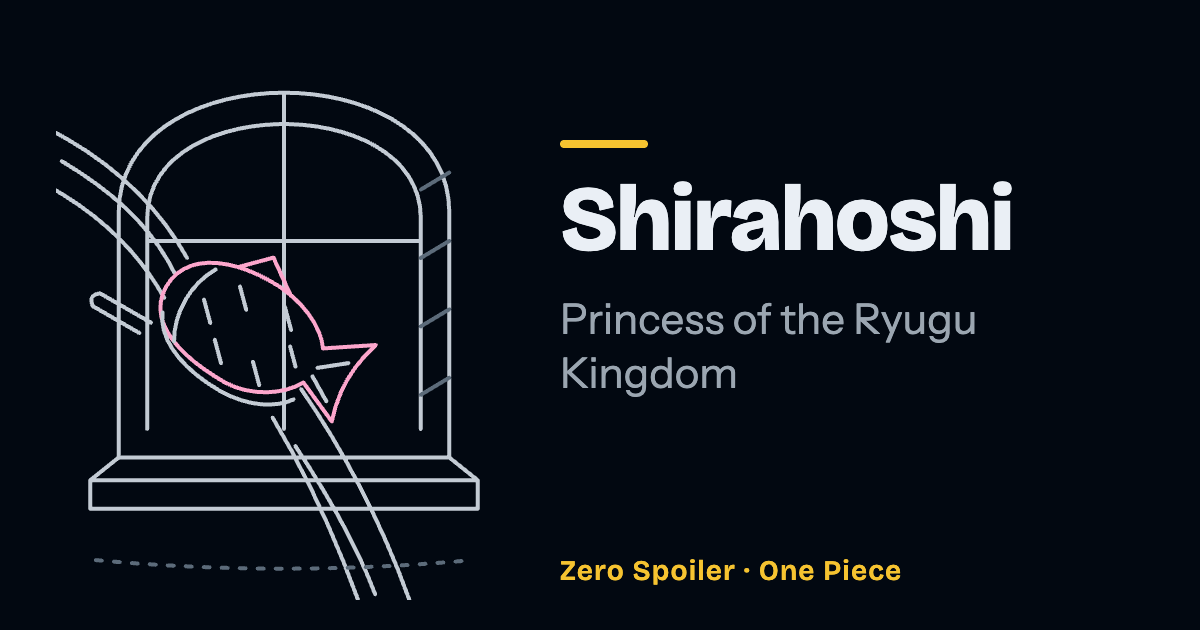
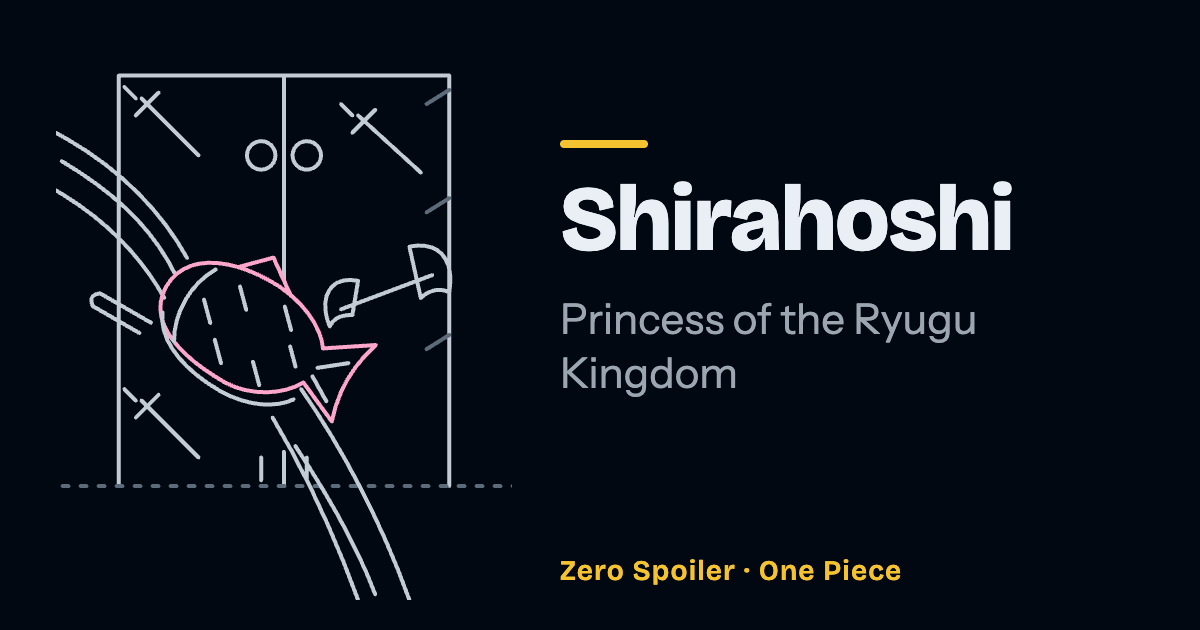
fix(art): set Shirahoshi's hairgrip against the Hard-Shell Tower's door
No source documents a window; ch. 612 has Luffy open an iron double door
with swords and a double-bladed axe stuck in it. Caribou's comments now
say his arms are hidden in the long sleeves.

Claude-Session: https://claude.ai/code/session_018XDoqAtT67ZkYEKqrsdP9h

diff --git a/src/data/series/one-piece/art/fish-man-island.ts b/src/data/series/one-piece/art/fish-man-island.ts
@@ -225,7 +225,7 @@ const CARIBOU_COLLAR: Stroke = {
   role: 'soft',
 }
 
-/** The very long sleeves of Caribou's shirt, hanging empty inside the coat. */
+/** The very long sleeves of Caribou's shirt inside the coat, his arms hidden in them. */
 const CARIBOU_SLEEVES: Stroke = {
   d: 'M70 58 C68 80 66 110 68 140 H78 C77 110 78 82 80 60 M90 58 C92 80 94 110 92 140 H82 C83 110 82 82 80 60',
   role: 'soft',
@@ -268,21 +268,28 @@ const CARIBOU_SWAMP: Stroke[] = [
 ]
 
 /**
- * The great arched window of Shirahoshi's tower, its glazing bars, the far
- * side of the frame hatched, and the sill.
+ * The iron double door of the Hard-Shell Tower, which Luffy opens on her in
+ * ch. 612: the two leaves, ring knockers high up and handles near the
+ * floor, three swords and a double-bladed axe stuck in it, the far edge
+ * hatched.
  */
-const SHIRAHOSHI_WINDOW: Stroke[] = [
-  { d: 'M22 150 V64 C22 8 138 8 138 64 V150' },
-  { d: 'M32 140 V66 C32 22 128 22 128 66 V140', role: 'soft' },
-  { d: 'M80 140 V22 M32 74 H128', role: 'soft' },
+const SHIRAHOSHI_DOOR: Stroke[] = [
+  { d: 'M22 160 V16 H138 V160 M80 16 V88 M80 148 V160' },
   {
-    d: 'M128 56 l10 -6 M128 80 l10 -6 M128 104 l10 -6 M128 128 l10 -6',
-    role: 'ambient',
+    d: `${circle(72, 44, 5)} ${circle(88, 44, 5)} M72 150 v8 M88 150 v8`,
+    role: 'soft',
   },
-  { d: 'M12 158 L22 150 H138 L148 158 Z M12 158 V168 H148 V158' },
+  {
+    d: 'M30 24 L50 44 M28 30 l8 -8 M24 20 l4 4 M106 30 L128 50 M104 36 l8 -8 M100 26 l4 4 M30 130 L50 150 M28 136 l8 -8 M24 126 l4 4',
+  },
+  {
+    d: 'M100 98 L132 86 M124 76 C134 74 140 80 138 92 C134 90 130 92 128 94 Z M106 88 C96 86 92 94 96 104 C98 100 102 100 104 100 Z',
+  },
+  { d: 'M130 26 l8 -5 M130 64 l8 -5 M130 112 l8 -5', role: 'ambient' },
+  { d: 'M-4 160 H164', role: 'ambient', dashed: true },
 ]
 
-/** A long lock of her hair falling across the window, behind the grip. */
+/** A long lock of her hair falling across the door, behind the grip. */
 const SHIRAHOSHI_LOCK: Stroke[] = [
   {
     d: 'M-4 34 C20 46 36 62 46 80 M86 126 C100 146 114 172 124 200 M-4 54 C18 66 30 80 38 94 M76 136 C88 156 98 178 106 200',
@@ -412,7 +419,7 @@ export const fishManIslandArt = {
   // His fur coat, worn draped over the shoulders like a cape and hanging
   // open: dark outside, hatched, the front edges turned back on the spotted
   // lining, whose spots are in his colour, and the fur of the collar along
-  // the top. Inside it hang the very long sleeves of his shirt, and across
+  // the top. Inside it, his arms hidden in the long sleeves of his shirt; across
   // the hem lies the flintlock he shoots the Marine with. He wears the coat
   // at Grove 46 from 519 and fires the gun at 521 (ch. 601), still in the
   // Return to Sabaody arc. The stages are in `fishManIslandRedrawn`: the
@@ -685,16 +692,11 @@ export const fishManIslandArt = {
   ],
 
   // Her hairgrip, a taiyaki filled with red bean paste, caught in a long
-  // lock of her pink hair that falls across the great arched window of her
-  // tower: a grip that size in front of that window can only be a giant's.
-  // She is first seen at the window at 531. The stage at 569, in
-  // `fishManIslandRedrawn`, brings the Sea Kings round the tower.
-  'shirahoshi': [
-    ...SHIRAHOSHI_WINDOW,
-    ...SHIRAHOSHI_LOCK,
-    ...SHIRAHOSHI_GRIP,
-    shadow(80, 186, 66),
-  ],
+  // lock of her pink hair, in front of the iron door of the Hard-Shell
+  // Tower with the blades stuck in it: a grip that size against that door
+  // can only be a giant's. Luffy opens the door on her at 531 (ch. 612). The
+  // stage at 569, in `fishManIslandRedrawn`, brings in the Sea Kings.
+  'shirahoshi': [...SHIRAHOSHI_DOOR, ...SHIRAHOSHI_LOCK, ...SHIRAHOSHI_GRIP],
   // The one sword he is first seen with, a katana with no guard in a sheath
   // covered in long spots, and the gourd he drinks from leaning beside it,
   // a cord tied round its waist. The eight swords come out much later.
@@ -1531,9 +1533,9 @@ export const fishManIslandRedrawn: Redrawings = {
   // in it at 523 (ch. 603).
   'caribou': [
     { episode: 523, chapter: 603, value: CARIBOU_SWAMP },
-    // No coat in the Udon mine: his long-sleeved shirt, the empty sleeves
-    // brought together at the front like a straitjacket's and shut in
-    // handcuffs, the cuffs in his colour. He is a prisoner there from 919
+    // No coat in the Udon mine: his long-sleeved shirt, the long sleeves
+    // brought together at the front and shut in handcuffs, the cuffs in his
+    // colour. He is a prisoner there from 919
     // (ch. 926).
     {
       episode: 919,
@@ -1547,8 +1549,8 @@ export const fishManIslandRedrawn: Redrawings = {
         },
       ],
     },
-    // The same shirt with the cuffs gone, the sleeves' ends hanging free and
-    // the cross on its chest now in his colour. Raizo stole the key to his
+    // The same shirt with the cuffs gone, the ends of the long sleeves apart
+    // and the cross on its chest now in his colour. Raizo stole the key to his
     // cuffs by mistake, and he comes to the sumo ring free of them at 937
     // (ch. 940).
     {
@@ -1566,9 +1568,10 @@ export const fishManIslandRedrawn: Redrawings = {
     // nothing.
     { episode: 1088, chapter: 1060, value: CARIBOU_SWAMP },
   ],
-  // Her window and hairgrip smaller, the grip plain now, and below them the
-  // arched backs of Sea Kings breaking the water, their spined ridges in
-  // her colour: a sign of the power, not a scene from the story. Robin tells
+  // The door, the lock and the hairgrip smaller, the grip plain now, and
+  // below them the arched backs of Sea Kings breaking the water, their
+  // spined ridges in her colour: a sign of the power, not a scene from the
+  // story. Robin tells
   // Neptune that she is Poseidon, the ancient weapon who can speak to the
   // Sea Kings, at 569 (ch. 649).
   'shirahoshi': [
@@ -1578,7 +1581,7 @@ export const fishManIslandRedrawn: Redrawings = {
       value: [
         ...moved(
           [
-            ...SHIRAHOSHI_WINDOW,
+            ...SHIRAHOSHI_DOOR,
             ...SHIRAHOSHI_LOCK,
             ...softened(SHIRAHOSHI_GRIP),
           ],
